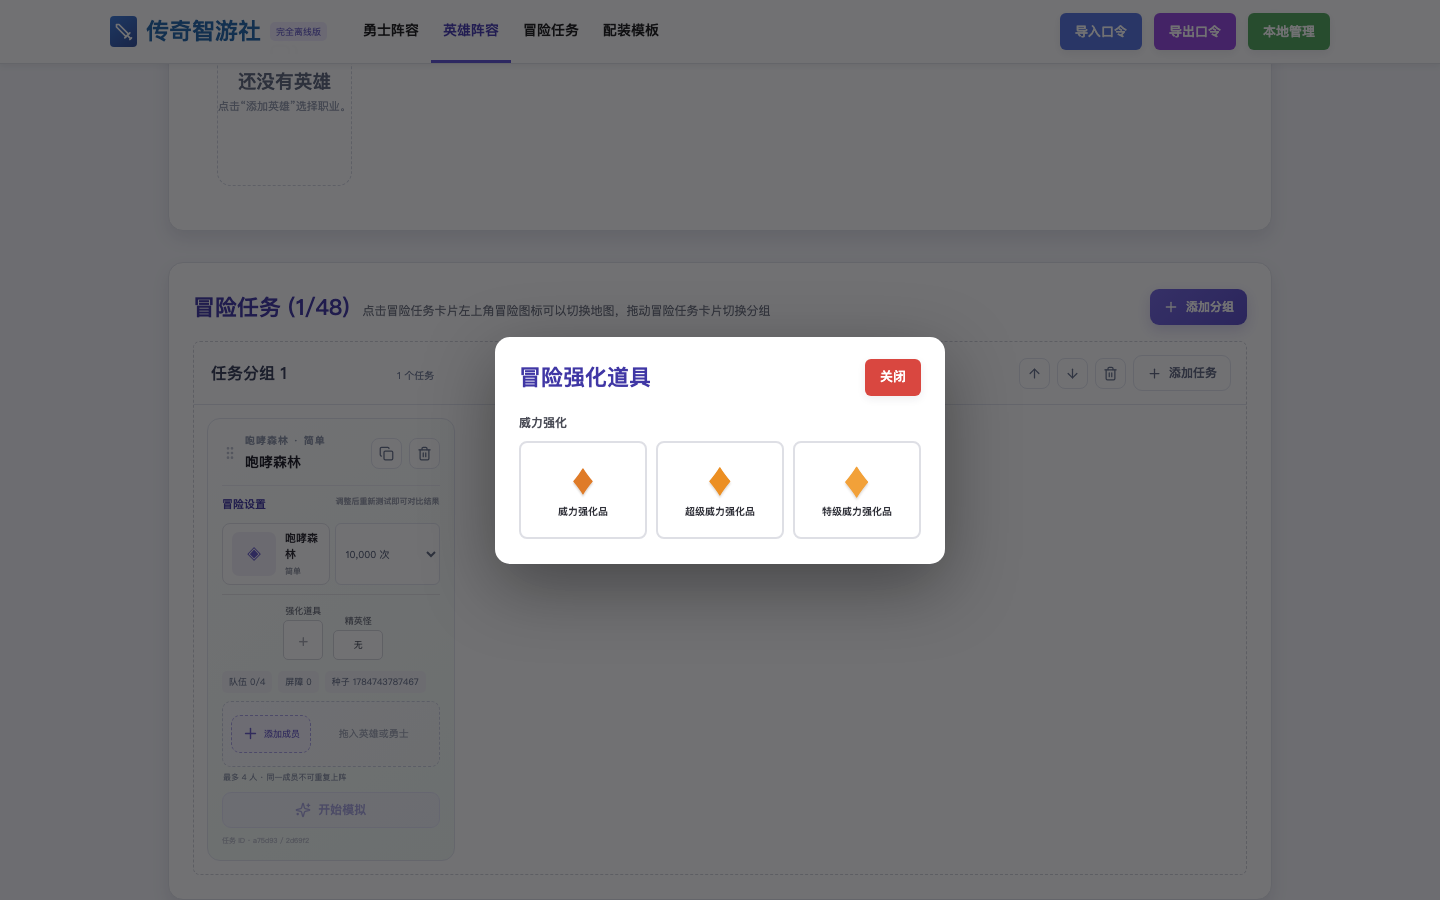
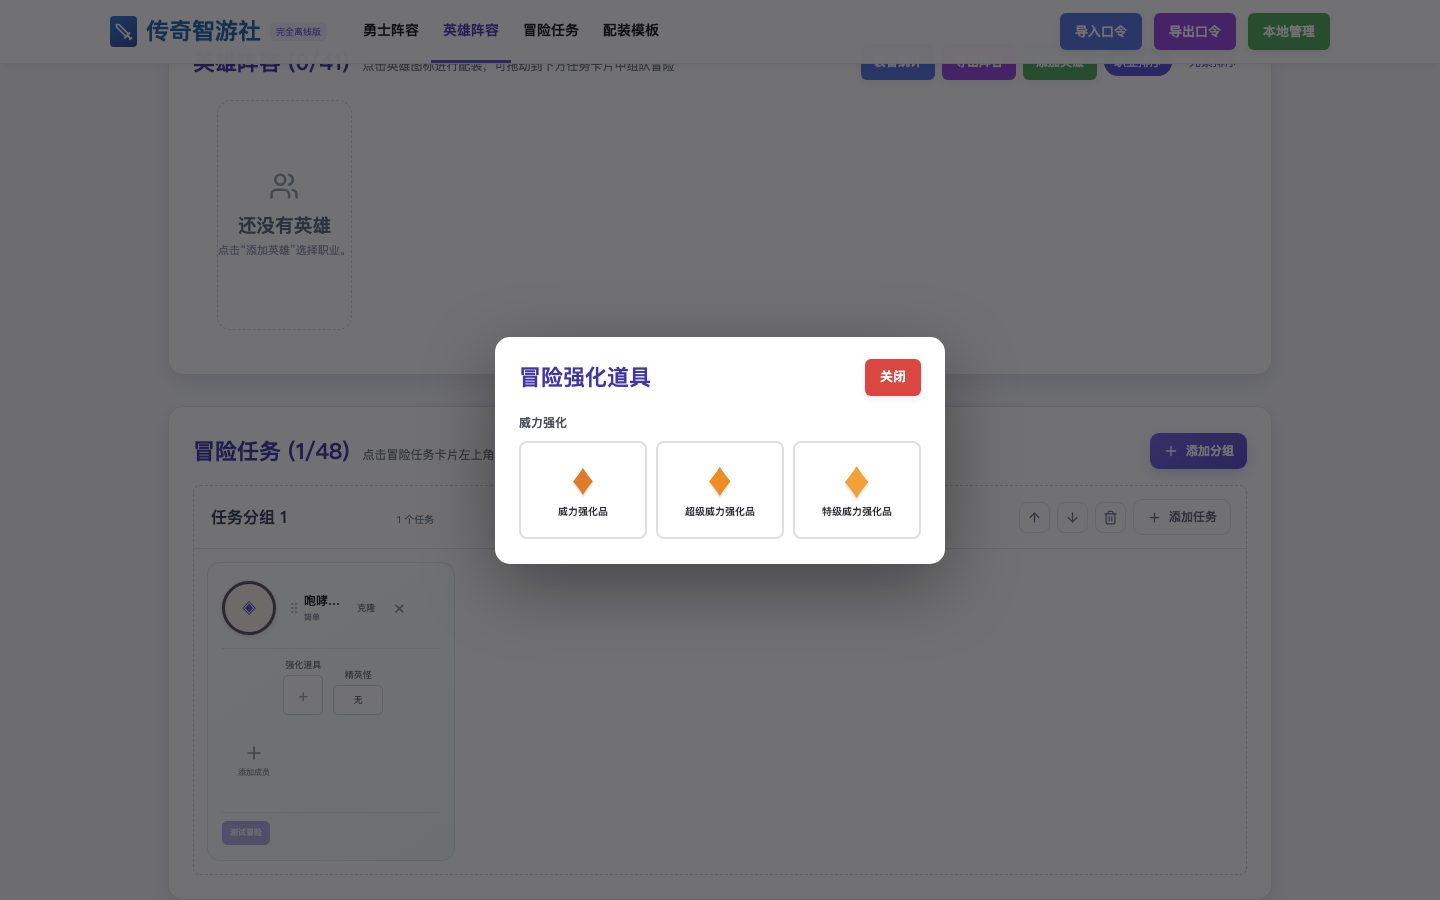
feat: match online adventure result flow

diff --git a/apps/desktop/src/App.tsx b/apps/desktop/src/App.tsx
@@ -491,7 +491,6 @@ function TaskCard({ systemId, systemGameVersion, groupId, index, task, units, qu
   const [questMapKey, setQuestMapKey] = useState<string | null>(null);
   const controller = useRef<AbortController | null>(null);
   const members = task.memberIds.map((id) => units.find((unit) => unit.id === id)).filter(Boolean) as PartyUnit[];
-  const barrierTotal = Object.values(task.barrier).reduce<number>((sum, value) => sum + (value ?? 0), 0);
   const boosterLevel = task.config.boosterLevel ?? (task.config.booster ? 1 : 0);
   const boosterNames = ["无", "威力强化品", "超级威力强化品", "特级威力强化品"];
   const eliteKinds = [["none", "无"], ["agile", "敏捷"], ["huge", "巨大"], ["dire", "凶残"], ["wealthy", "富有"], ["epic", "传奇"]] as const;
@@ -515,12 +514,14 @@ function TaskCard({ systemId, systemGameVersion, groupId, index, task, units, qu
   };
 
   const run = async () => {
+    const simulatedTask = task.config.iterations === 10000 ? task : { ...task, config: { ...task.config, iterations: 10000 as const } };
+    if (simulatedTask !== task) onChange?.(simulatedTask);
     const next = new AbortController(); controller.current = next;
-    setProgress({ taskId: task.id, completed: 0, total: task.config.iterations, phase: "queued" });
+    setProgress({ taskId: task.id, completed: 0, total: 10000, phase: "queued" });
     try {
-      const result = await desktopBridge.simulate({ ...task, gameDataVersion: systemGameVersion }, members, setProgress, next.signal, systemId);
+      const result = await desktopBridge.simulate({ ...simulatedTask, gameDataVersion: systemGameVersion }, members, setProgress, next.signal, systemId);
       onResult(result);
-      setProgress({ taskId: task.id, completed: task.config.iterations, total: task.config.iterations, phase: "complete" });
+      setProgress({ taskId: task.id, completed: 10000, total: 10000, phase: "complete" });
     } catch (error) {
       const detail = error instanceof Error ? error.message : String(error);
       const cancelled = next.signal.aborted || (error instanceof DOMException && error.name === "AbortError") || /cancel|cancelled|取消/i.test(detail);
@@ -535,7 +536,7 @@ function TaskCard({ systemId, systemGameVersion, groupId, index, task, units, qu
     catch (error) { setMessage(error instanceof Error ? error.message : "PNG 导出失败"); }
   };
 
-  return <article className="task-card" draggable onDragStart={(event) => {
+  return <article className="task-card" data-task-name={task.name} draggable onDragStart={(event) => {
     event.dataTransfer.setData("application/x-zys-task", JSON.stringify({ groupId, taskId: task.id }));
     event.dataTransfer.effectAllowed = "move";
   }} onDragOver={(event) => { event.preventDefault(); event.dataTransfer.dropEffect = event.dataTransfer.types.includes("application/x-zys-task") ? "move" : "copy"; }} onDrop={(event) => {
@@ -555,15 +556,13 @@ function TaskCard({ systemId, systemGameVersion, groupId, index, task, units, qu
     if (!units.some((unit) => unit.id === id)) { setMessage("拖入的成员不在当前体系阵容中"); return; }
     setMessage(""); onDrop(id);
   }}>
-    <header className="task-header">
-      <div className="task-heading"><GripVertical className="task-drag-handle" size={16} /><div><span className="eyebrow">{task.map} · {task.difficulty}</span><h3>{task.name}</h3></div></div>
-      <div className="card-actions"><IconButton label="复制任务" disabled={!canDuplicate} onClick={onCopy}><Copy size={15} /></IconButton><IconButton label="删除任务" onClick={onDelete} danger><Trash2 size={15} /></IconButton></div>
+    <header className="online-quest-header">
+      <button className="quest-switcher" title="点击切换地图" aria-label={`${task.name}切换地图`} onClick={() => { setQuestPicker(true); setQuestMapKey(null); }}><span className="quest-switcher-art">{currentQuest?.spritePath ? <AssetImage path={currentQuest.spritePath} alt={task.map} /> : "◈"}</span></button>
+      <div className="online-quest-name"><GripVertical className="task-drag-handle" size={14} /><strong>{task.map}</strong><small>{task.difficulty}</small></div>
+      <button className="online-card-action" aria-label="复制任务" disabled={!canDuplicate} onClick={onCopy}>克隆</button>
+      {selectedElement && selectedElement !== "force" && <span className="barrier-broken"><b className={`element-dot element-${elementCode[selectedElement]}`}>✦</b>已破盾</span>}
+      <button className="online-delete-task" aria-label="删除任务" onClick={onDelete}>×</button>
     </header>
-    <div className="simulation-config-title"><span>冒险设置</span><small>调整后重新测试即可对比结果</small></div>
-    <div className="task-config online-task-config">
-      <button className="quest-switcher" title="点击切换地图" aria-label={`${task.name}切换地图`} onClick={() => { setQuestPicker(true); setQuestMapKey(null); }}><span className="quest-switcher-art">{quests.find((entry) => entry.id === task.questId)?.spritePath ? <AssetImage path={quests.find((entry) => entry.id === task.questId)?.spritePath} alt={task.map} /> : "◈"}</span><span><strong>{task.map}</strong><small>{task.difficulty}</small></span></button>
-      <select aria-label={`${task.name}模拟次数`} value={task.config.iterations} onChange={(event) => onChange?.({ ...task, config: { ...task.config, iterations: Number(event.target.value) as 1000 | 10000 } })}><option value={1000}>1,000 次</option><option value={10000}>10,000 次</option></select>
-    </div>
     {questPicker && <div className="nested-picker-backdrop quest-picker-backdrop" onMouseDown={(event) => { if (event.target === event.currentTarget) { setQuestPicker(false); setQuestMapKey(null); } }}><section className="quest-picker-dialog" role="dialog" aria-modal="true" aria-labelledby="quest-picker-title"><header><h3 id="quest-picker-title">选择冒险任务</h3><button className="zys-button red" onClick={() => { setQuestPicker(false); setQuestMapKey(null); }}>关闭</button></header><nav>{(["普通冒险", "黄金城", "泰坦塔", "快闪"] as const).map((category) => <button key={category} className={questCategory === category ? "active" : ""} onClick={() => { setQuestCategory(category); setQuestMapKey(null); }}>{category}</button>)}</nav>{questMapKey ? <><button className="quest-picker-back" onClick={() => setQuestMapKey(null)}>← 返回</button><div className="quest-selected-map"><AssetImage path={chosenMapQuests[0]?.spritePath} alt={chosenMapQuests[0]?.mapName ?? "地图"} /><strong>{chosenMapQuests[0]?.mapName}{chosenMapQuests[0]?.isBoss ? " (Boss)" : ""}</strong></div><div className="quest-difficulty-grid">{chosenMapQuests.map((quest) => <button key={quest.id} onClick={() => selectQuest(quest)}><AssetImage path={quest.spritePath} alt={quest.difficulty} /><strong>{quest.difficulty}</strong></button>)}</div></> : <div className="quest-map-grid">{questMaps.map((quest) => <button key={quest.mapKey} onClick={() => quest.category === "泰坦塔" ? selectQuest(quest) : setQuestMapKey(quest.mapKey)}><AssetImage path={quest.spritePath} alt={quest.mapName} /><strong>{quest.category === "泰坦塔" ? quest.difficulty : `${quest.mapName}${quest.isBoss ? " (Boss)" : ""}`}</strong></button>)}</div>}</section></div>}
     <div className="online-task-options">
       <div><span>强化道具</span><button aria-label={`强化道具：${boosterNames[boosterLevel]}`} className={`task-square-option booster-${boosterLevel} ${boosterLevel > 0 ? "active" : ""}`} onClick={() => { setElitePicker(false); setBarrierPicker(false); setBoosterPicker(true); }}>{boosterLevel > 0 ? <><b>♦</b><small>{boosterLevel}</small></> : "+"}</button></div>
@@ -572,25 +571,19 @@ function TaskCard({ systemId, systemGameVersion, groupId, index, task, units, qu
       {task.config.titanTower && <label><input type="checkbox" checked onChange={(event) => onChange?.({ ...task, config: { ...task.config, titanTower: event.target.checked } })} />泰坦塔</label>}
     </div>
     {boosterPicker && <div className="nested-picker-backdrop booster-picker-backdrop" onMouseDown={(event) => { if (event.target === event.currentTarget) setBoosterPicker(false); }}><section className="booster-picker-dialog" role="dialog" aria-modal="true" aria-labelledby={`booster-picker-${task.id}`}><header><h3 id={`booster-picker-${task.id}`}>冒险强化道具</h3><button className="zys-button red" onClick={() => setBoosterPicker(false)}>关闭</button></header><strong>威力强化</strong><div>{([1, 2, 3] as const).map((level) => <button key={level} className={boosterLevel === level ? "active" : ""} title={level === 1 ? "攻防 +20% · 暴击 +10%" : level === 2 ? "攻防 +40% · 暴击 +15%" : "攻防 +80% · 暴击 +30% · 暴伤 +50%"} onClick={() => { const nextLevel = boosterLevel === level ? 0 : level; onChange?.({ ...task, config: { ...task.config, booster: nextLevel > 0, boosterLevel: nextLevel } }); setBoosterPicker(false); }}><b className={`booster-gem booster-gem-${level}`}>♦</b><span>{boosterNames[level]}</span></button>)}</div></section></div>}
-    <div className="task-meta"><span>队伍 {members.length}/{task.maxMembers}</span><span>屏障 {barrierTotal}</span><span>种子 {task.config.seed}</span></div>
-    <div className="party-dropzone">
-      {members.map((unit) => <button className="party-member" key={unit.id} title={`移除 ${unit.name}`} onClick={() => onRemove(unit.id)}><UnitAvatar unit={unit} small /><span>{unit.name}</span><X size={12} /></button>)}
-      {members.length < task.maxMembers && <><button className="add-party-member" onClick={() => setMemberPicker(!memberPicker)}><Plus size={17} />添加成员</button><span className="drop-hint drag-copy">拖入英雄或勇士</span></>}
+    <div className="party-dropzone online-party-dropzone">
+      {members.map((unit) => <button className="party-member online-party-member" key={unit.id} title={`移除 ${unit.name}`} onClick={() => onRemove(unit.id)}><span className="member-avatar-wrap"><UnitAvatar unit={unit} small /><b className={`member-element element-${unit.element}`}>{unit.element}</b><i>×</i></span><span>{unit.name}</span></button>)}
+      {members.length < task.maxMembers && <button className="add-party-member online-add-member" onClick={() => setMemberPicker(!memberPicker)}><Plus size={20} /><span>添加成员</span></button>}
     </div>
     {memberPicker && <div className="member-picker"><strong>选择成员添加到任务</strong><div>{units.filter((unit) => !task.memberIds.includes(unit.id)).map((unit) => <button key={unit.id} onClick={() => { onDrop(unit.id); setMemberPicker(false); }}><UnitAvatar unit={unit} small /><span>{unit.name}<small>{unit.kind === "champion" ? "勇士" : unit.className}</small></span></button>)}</div></div>}
-    <small className={`member-rule ${members.length >= task.maxMembers ? "limit" : ""}`}>{members.length >= task.maxMembers ? `已达 ${task.maxMembers} 人上限` : `最多 ${task.maxMembers} 人`} · 同一成员不可重复上阵</small>
     {message && <div className="task-message" role="status">{message}</div>}
-    {progress && progress.phase !== "complete" ? <div className="progress-area">
+    {progress && progress.phase !== "complete" ? <div className="progress-area online-progress">
       <div className="progress-copy"><span>模拟中 {Math.round(progress.completed / progress.total * 100)}%</span><button className="link-button" onClick={() => controller.current?.abort()}><PauseCircle size={14} />取消</button></div>
       <progress value={progress.completed} max={progress.total} />
-    </div> : <button className="simulate-button" onClick={() => void run()} disabled={!members.length}><Sparkles size={16} />开始模拟</button>}
-    {task.result && <><div className={`result-panel visual-result ${task.result.stale ? "stale" : ""}`}>
-      <div className="success-gauge" style={{ background: `conic-gradient(#6253da ${Math.max(0, Math.min(100, task.result.successRate))}%, #e9e7f6 0)` }}><span><strong>{task.result.successRate}%</strong><small>成功率</small></span></div>
-      <div className="result-metrics"><div><strong>{task.result.averageTurns}</strong><span>平均回合</span></div><div><strong>{task.result.survivalRate}%</strong><span>存活率</span></div><div><strong>{task.config.iterations.toLocaleString()}</strong><span>尝试次数</span></div></div>
-      <div className="result-bars"><label>任务成功<progress max={100} value={task.result.successRate} /></label><label>成员存活<progress max={100} value={task.result.survivalRate} /></label></div>
-      {task.result.stale && <small>数据版本已变化，请重新模拟</small>}
-    </div><div className="result-actions"><button className="link-button" onClick={() => setDetails(true)}>查看详情</button><button className="link-button" onClick={() => void exportResult()}><Download size={13} />导出结果 PNG</button></div>{details && <div className="modal-backdrop simulation-detail-backdrop" onMouseDown={(event) => { if (event.target === event.currentTarget) setDetails(false); }}><section className="modal simulation-detail-modal" role="dialog" aria-modal="true" aria-labelledby={`simulation-detail-${task.id}`}><header className="modal-header"><h2 id={`simulation-detail-${task.id}`}>冒险模拟详情</h2><div className="modal-header-actions"><button className="zys-button blue" onClick={() => void exportResult()}>下载图片</button><button className="zys-button red" onClick={() => setDetails(false)}>关闭</button></div></header><div className="simulation-quest-banner"><div><strong>{task.name}</strong><small>{task.map} · {task.difficulty}</small></div><dl><div><dt>强化道具</dt><dd>{boosterNames[boosterLevel]}</dd></div><div><dt>精英怪</dt><dd>{eliteKinds.find(([value]) => value === eliteKind)?.[1]}</dd></div><div><dt>元素屏障</dt><dd>{barrierTotal || "自动"}</dd></div></dl></div><div className="simulation-summary"><div><span>尝试次数</span><strong>{task.config.iterations.toLocaleString()}</strong></div><div><span>成功率</span><strong>{task.result.successRate}%</strong></div><div><span>平均回合数</span><strong>{task.result.averageTurns}</strong></div><div><span>最小回合数</span><strong>{task.result.minTurns}</strong></div><div><span>最大回合数</span><strong>{task.result.maxTurns}</strong></div></div><div className="simulation-members">{members.map((unit) => <article key={unit.id}><UnitAvatar unit={unit} /><div><strong>{unit.name}</strong><small>{unit.kind === "champion" ? "勇士" : unit.className}</small></div><span>存活率 <b>{task.result!.survivalRate}%</b></span><span>平均伤害 <b>{task.result!.averageDamage.toLocaleString()}</b></span><StatStrip unit={unit} /></article>)}</div><footer className="simulation-detail-footer">模拟器 {task.result.simulatorVersion} · 数据 {task.result.gameDataVersion}</footer></section></div>}</>}
-    <small className="task-identity">任务 ID · {groupId.slice(0, 6)} / {task.id.slice(0, 6)}</small>
+    </div> : null}
+    <div className="online-result-row">{task.result && <><span className="online-success-icon" aria-label="成功率">☺</span><strong>成功率: {task.result.successRate.toFixed(3)}%</strong><button onClick={() => setDetails(true)}>查看详情</button></>}<button className="online-test-button" onClick={() => void run()} disabled={!members.length}>测试冒险</button></div>
+    {task.result?.stale && <small className="stale-result">数据版本已变化，请重新测试</small>}
+    {task.result && details && <div className="modal-backdrop simulation-detail-backdrop" onMouseDown={(event) => { if (event.target === event.currentTarget) setDetails(false); }}><section className="modal simulation-detail-modal" role="dialog" aria-modal="true" aria-labelledby={`simulation-detail-${task.id}`}><header className="modal-header"><h2 id={`simulation-detail-${task.id}`}>冒险模拟详情</h2><div className="modal-header-actions"><button className="zys-button blue" onClick={() => void exportResult()}>下载图片</button><button className="zys-button red" onClick={() => setDetails(false)}>关闭</button></div></header><div className="simulation-quest-banner"><div className="simulation-quest-title"><span className="quest-switcher-art">{currentQuest?.spritePath ? <AssetImage path={currentQuest.spritePath} alt={task.map} /> : "◈"}</span><div><strong>{task.map}</strong><small>{task.difficulty}</small></div></div><dl><div><dt>冒险强化道具</dt><dd>{boosterLevel ? boosterNames[boosterLevel] : "无"}</dd></div><div><dt>精英怪</dt><dd>{eliteKinds.find(([value]) => value === eliteKind)?.[1]}</dd></div><div><dt>元素屏障</dt><dd>{selectedElementLabel}</dd></div></dl></div><div className="simulation-summary"><div><span>尝试次数</span><strong>{(task.result.iterations ?? 10000).toLocaleString()}</strong></div><div><span>成功率</span><strong>{task.result.successRate.toFixed(2)}%</strong></div><div><span>平均回合数</span><strong>{task.result.averageTurns}</strong></div><div><span>最小回合数</span><strong>{task.result.minTurns}</strong></div><div><span>最大回合数</span><strong>{task.result.maxTurns}</strong></div></div><div className="simulation-member-summary">{members.map((unit) => { const memberResult = task.result?.memberResults?.find((entry) => entry.id === unit.id); return <article key={unit.id}><UnitAvatar unit={unit} small /><strong>{unit.name}</strong><span>☺ {(memberResult?.survivalRate ?? task.result!.survivalRate).toFixed(2)}%</span><span>⚔ {Math.round(memberResult?.averageDamage ?? task.result!.averageDamage).toLocaleString()}</span><span>♥ {Math.round(memberResult?.averageRemainingHealth ?? task.result!.averageRemainingHealth).toLocaleString()}</span></article>; })}</div><div className="simulation-members">{members.map((unit) => <article key={unit.id}><UnitAvatar unit={unit} /><div><strong>{unit.name}</strong><small>{unit.kind === "champion" ? "勇士" : unit.className}</small></div><StatStrip unit={unit} /></article>)}</div><footer className="simulation-detail-footer">模拟器 {task.result.simulatorVersion} · 数据 {task.result.gameDataVersion}</footer></section></div>}
   </article>;
 }
 

diff --git a/apps/desktop/tests/App.test.tsx b/apps/desktop/tests/App.test.tsx
@@ -181,10 +181,10 @@ test("supports drag payload into an adventure task", async () => {
   render(<App />);
   await screen.findByText(/英雄阵容/, { selector: "h2" });
   await user.click(screen.getByRole("button", { name: /冒险任务/ }));
-  const dropzone = screen.getByText("拖入英雄或勇士").closest("div")!;
+  const dropzone = document.querySelector<HTMLElement>(".task-card")!;
   const transfer = { getData: () => "missing-id", setData: () => {}, effectAllowed: "copy", dropEffect: "copy" };
-  fireEvent.drop(dropzone.closest("article")!, { dataTransfer: transfer });
-  expect(screen.getByText(/队伍 1\/4/)).toBeInTheDocument();
+  fireEvent.drop(dropzone, { dataTransfer: transfer });
+  expect(screen.getByTitle("移除 骑士1")).toBeInTheDocument();
 });
 
 test("contains no remote runtime URLs", async () => {
@@ -232,7 +232,7 @@ test("reorders task cards within and across groups using the task drag payload",
   fireEvent.dragStart(cards[1]!, { dataTransfer: within });
   fireEvent.drop(cards[0]!, { dataTransfer: within });
   cards = [...document.querySelectorAll<HTMLElement>(".task-card")];
-  expect(cards[0]).toHaveTextContent("副本");
+  expect(cards[0]).toHaveAttribute("data-task-name", "咆哮森林 副本");
 
   await user.click(screen.getByRole("button", { name: "添加分组" }));
   let groups = [...document.querySelectorAll<HTMLElement>(".task-group")];
@@ -243,7 +243,7 @@ test("reorders task cards within and across groups using the task drag payload",
   groups = [...document.querySelectorAll<HTMLElement>(".task-group")];
   expect(groups[0]).toHaveTextContent("1 个任务");
   expect(groups[1]).toHaveTextContent("2 个任务");
-  expect(groups[1]!.querySelector(".task-card")).toHaveTextContent("副本");
+  expect(groups[1]!.querySelector(".task-card")).toHaveAttribute("data-task-name", "咆哮森林 副本");
 });
 
 test("selects the online automatic, element and no-barrier modes", async () => {
@@ -260,8 +260,7 @@ test("selects the online automatic, element and no-barrier modes", async () => {
   await user.click(screen.getByRole("button", { name: "元素屏障：火" }));
   await user.click(screen.getByRole("option", { name: "无屏障" }));
   expect(screen.getByRole("button", { name: "元素屏障：无屏障" })).toBeInTheDocument();
-  expect(screen.getByText("屏障 3275")).toBeInTheDocument();
-  expect(screen.getByText(/最多 4 人 · 同一成员不可重复上阵/)).toBeInTheDocument();
+  expect(screen.getByRole("button", { name: "添加成员" })).toBeInTheDocument();
 });
 
 test("mirrors the online map, booster and elite selection flows", async () => {
@@ -338,9 +337,9 @@ test("treats an ordinary Rust cancellation error as a recoverable UI state", asy
   await appReady();
   await user.click(screen.getByRole("button", { name: /冒险任务/ }));
   vi.spyOn(desktopBridge, "simulate").mockRejectedValueOnce(new Error("simulation cancelled by user"));
-  await user.click(screen.getByRole("button", { name: "开始模拟" }));
+  await user.click(screen.getByRole("button", { name: "测试冒险" }));
   expect(await screen.findByText("模拟已取消，可重新开始")).toBeInTheDocument();
-  expect(screen.getByRole("button", { name: "开始模拟" })).toBeEnabled();
+  expect(screen.getByRole("button", { name: "测试冒险" })).toBeEnabled();
 });
 
 test("saves, applies and deletes a local equipment template", async () => {

diff --git a/apps/desktop/e2e/workflows.spec.ts b/apps/desktop/e2e/workflows.spec.ts
@@ -69,7 +69,7 @@ test.describe("浏览器预览中的主要离线工作流", () => {
     await assertOffline(remoteRequests);
   });
 
-  test("英雄拖放载荷可以加入任务，1000 与 10000 次模拟均展示进度和结果", async ({ page }) => {
+  test("英雄拖放载荷可以加入任务，固定 10000 次模拟展示进度和线上同款结果", async ({ page }) => {
     const remoteRequests = await openPreview(page);
 
     await page.getByRole("button", { name: "添加英雄" }).click();
@@ -92,19 +92,15 @@ test.describe("浏览器预览中的主要离线工作流", () => {
     }, secondHero);
     await task.dispatchEvent("drop", { dataTransfer: transfer });
     await expect(task.getByText(secondHero.name, { exact: true })).toBeVisible();
-    await expect(task.getByText("队伍 1/4")).toBeVisible();
+    await expect(task.getByTitle(`移除 ${secondHero.name}`)).toBeVisible();
 
-    const iterationSelect = task.getByLabel(/模拟次数/);
-    await iterationSelect.selectOption("1000");
-    await task.getByRole("button", { name: "开始模拟" }).click();
+    await task.getByRole("button", { name: "测试冒险" }).click();
     await expect(task.getByText(/模拟中 \d+%/)).toBeVisible();
-    await expect(task.getByText("87.4%")).toBeVisible();
-    await expect(task.getByText("成功率")).toBeVisible();
+    await expect(task.getByText("成功率: 87.400%")).toBeVisible();
 
-    await iterationSelect.selectOption("10000");
-    await task.getByRole("button", { name: "开始模拟" }).click();
+    await task.getByRole("button", { name: "测试冒险" }).click();
     await expect(task.getByText(/模拟中 \d+%/)).toBeVisible();
-    await expect(task.getByText("87.4%")).toBeVisible();
+    await expect(task.getByText("成功率: 87.400%")).toBeVisible();
     await task.getByRole("button", { name: "查看详情" }).click();
     await expect(task.getByText("browser-preview")).toBeVisible();
     await assertOffline(remoteRequests);

diff --git a/apps/desktop/src/styles.css b/apps/desktop/src/styles.css
@@ -253,3 +253,13 @@ body { background: #f3f5fa; }
 .collection-card p { margin:14px 0 10px; color:#555b6a; font-size:11px; }.collection-card p span { color:#aaa; }
 .collection-source { position:absolute; top:9px; left:9px; padding:2px 6px; color:#fff; font-size:9px; border-radius:9px; background:#6258df; }
 @media (max-width:900px) { .local-collection { padding-right:0; }.collection-search input { min-width:0; flex:1; } }
+/* Online task-card parity: keep primary task configuration and result flow compact. */
+.online-quest-header { min-height:62px; display:grid; grid-template-columns:58px minmax(0,1fr) auto auto 22px; align-items:center; gap:7px; }
+.online-quest-header .quest-switcher { min-height:0; padding:0; border:0; background:transparent; }.online-quest-header .quest-switcher-art { width:54px; height:54px; flex-basis:54px; border:3px solid #5c5260; border-radius:50%; background:#f4f1e8; box-shadow:0 1px 4px rgba(28,25,40,.18); }
+.online-quest-name { min-width:0; display:grid; grid-template-columns:14px 1fr; align-items:center; column-gap:3px; }.online-quest-name strong,.online-quest-name small { grid-column:2; overflow:hidden; text-overflow:ellipsis; white-space:nowrap; }.online-quest-name strong { font-size:12px; }.online-quest-name small { margin-top:2px; color:#7e8491; font-size:8px; }.task-drag-handle { grid-row:1/3; color:#b6bac5; cursor:grab; }
+.online-card-action,.online-delete-task { border:0; background:transparent; }.online-card-action { padding:5px 6px; color:#666c7b; font-size:9px; }.online-delete-task { color:#9d7b82; font-size:17px; }.barrier-broken { display:flex; align-items:center; gap:3px; color:#686d78; font-size:8px; white-space:nowrap; }.barrier-broken b { width:18px; height:18px; display:grid; place-items:center; color:white; border-radius:50%; font-style:normal; }
+.online-party-dropzone { min-height:82px; align-items:flex-start; justify-content:flex-start; padding:7px 5px; border:0; border-radius:0; background:transparent; }.online-party-member { width:54px; display:flex; flex-direction:column; gap:4px; padding:0; border:0; background:transparent; text-align:center; }.online-party-member:hover { border-color:transparent; }.member-avatar-wrap { position:relative; width:44px; height:44px; display:block; margin:auto; }.member-avatar-wrap .unit-avatar { width:44px; height:44px; border-radius:50%; }.member-avatar-wrap i { position:absolute; top:-3px; right:-4px; width:16px; height:16px; display:grid; place-items:center; color:#fff; border:2px solid #fff; border-radius:50%; background:#8b7b83; font-size:10px; font-style:normal; }.member-element { position:absolute; right:-3px; bottom:-2px; min-width:17px; height:17px; display:grid; place-items:center; padding:0 3px; color:#fff; border:2px solid #fff; border-radius:50%; font-size:7px; }.online-party-member > span:last-child { width:100%; overflow:hidden; color:#484b56; font-size:8px; text-overflow:ellipsis; white-space:nowrap; }.online-add-member { width:54px; min-height:64px; flex-direction:column; justify-content:center; gap:4px; padding:0; border:0; color:#8d919d; background:transparent; }.online-add-member span { font-size:8px; }
+.element-火,.element-fire { background:#df5d5f; }.element-水,.element-water { background:#4c94d8; }.element-土,.element-earth { background:#a58350; }.element-风,.element-air { background:#48a884; }.element-光,.element-light { background:#dfa934; }.element-暗,.element-dark { background:#7254bd; }.element-all { background:#85818b; }
+.online-result-row { min-height:34px; display:flex; align-items:center; gap:7px; margin-top:8px; padding-top:8px; border-top:1px solid #e8e9ec; }.online-result-row > strong { margin-right:auto; color:#3d414c; font-size:10px; }.online-result-row button { padding:5px 7px; color:#5b55a7; border:1px solid #d9d6ec; border-radius:5px; background:#fff; font-size:8px; }.online-result-row .online-test-button { color:#fff; border-color:#6658d3; background:#6658d3; }.online-result-row button:disabled { opacity:.48; }.online-success-icon { width:20px; height:20px; display:grid; place-items:center; color:#174f27; border:2px solid #216e37; border-radius:50%; background:#6bd36f; font-size:13px; font-weight:800; }.stale-result { display:block; margin-top:5px; color:#aa711e; font-size:8px; }.online-progress { margin-top:7px; }
+.simulation-quest-title { display:flex; align-items:center; gap:12px; }.simulation-quest-title .quest-switcher-art { width:62px; height:62px; border-radius:50%; }.simulation-member-summary { display:grid; grid-template-columns:repeat(4,1fr); gap:8px; margin:0 48px; padding:15px 0; border-bottom:1px solid #e6e7eb; }.simulation-member-summary article { display:grid; grid-template-columns:42px 1fr; gap:2px 8px; align-items:center; }.simulation-member-summary .unit-avatar { grid-row:1/5; width:42px; height:42px; border-radius:50%; }.simulation-member-summary strong { font-size:10px; }.simulation-member-summary span { color:#656b79; font-size:8px; }
+.simulation-members article { grid-template-columns:58px 150px 1fr; }.simulation-members article > .stat-strip { min-width:0; }

diff --git a/apps/desktop/src/types/domain.ts b/apps/desktop/src/types/domain.ts
@@ -109,6 +109,7 @@ export interface SimulationConfig {
 }
 
 export interface SimulationResult {
+  iterations?: number;
   successRate: number;
   averageTurns: number;
   minTurns: number;
@@ -116,6 +117,12 @@ export interface SimulationResult {
   survivalRate: number;
   averageDamage: number;
   averageRemainingHealth: number;
+  memberResults?: Array<{
+    id: string;
+    survivalRate: number;
+    averageDamage: number;
+    averageRemainingHealth: number;
+  }>;
   simulatorVersion: string;
   gameDataVersion: string;
   completedAt: string;

diff --git a/apps/desktop/src/platform/bridge.ts b/apps/desktop/src/platform/bridge.ts
@@ -281,9 +281,15 @@ export const desktopBridge = {
       onProgress({ taskId: task.id, completed: Math.round((task.config.iterations * step) / steps), total: task.config.iterations, phase: "running" });
     }
     return {
+      iterations: task.config.iterations,
       successRate: 87.4, averageTurns: 8.6, minTurns: 5, maxTurns: 17, survivalRate: 92.1,
       averageDamage: 18640, averageRemainingHealth: 2830, simulatorVersion: "browser-preview",
       gameDataVersion: "offline-preview-1", completedAt: new Date().toISOString(),
+      memberResults: units.map((unit, index) => ({
+        id: unit.id, survivalRate: Math.max(0, 94.6 - index * 2.1),
+        averageDamage: Math.round(18640 / Math.max(1, units.length) * (1 + index * 0.08)),
+        averageRemainingHealth: Math.round(2830 / Math.max(1, units.length) * (1 - index * 0.06)),
+      })),
     };
   },
 

diff --git a/apps/desktop/src-tauri/src/lib.rs b/apps/desktop/src-tauri/src/lib.rs
@@ -1580,6 +1580,12 @@ async fn start_simulation(
             "survivalRate": result.members.iter().map(|member| member.survival_rate).sum::<f64>() / member_count * 100.0,
             "averageDamage": result.members.iter().map(|member| member.average_damage).sum::<f64>(),
             "averageRemainingHealth": result.members.iter().map(|member| member.average_remaining_health).sum::<f64>(),
+            "memberResults": result.members.iter().map(|member| json!({
+                "id": member.id,
+                "survivalRate": member.survival_rate * 100.0,
+                "averageDamage": member.average_damage,
+                "averageRemainingHealth": member.average_remaining_health
+            })).collect::<Vec<_>>(),
             "seed": result.seed, "iterations": result.iterations,
             "simulatorVersion": SIMULATOR_VERSION, "gameDataVersion": game_data_version,
             "completedAt": Utc::now().to_rfc3339(), "stale": false

diff --git a/docs/ONLINE_OFFLINE_PARITY.md b/docs/ONLINE_OFFLINE_PARITY.md
@@ -72,11 +72,12 @@
 | 地图选择 | 点击左上地图图标打开图片网格；普通、黄金城、泰坦塔、快闪四页签 | 已改为同类四页签、地图图片网格和难度二级选择 | 部分一致（仍需逐分类像素核对） |
 | 克隆 / 删除任务 | 任务卡内操作 | 已有 | 一致 |
 | 添加任务 | 组末尾添加 | 已有 | 一致 |
-| 队伍编排 | 英雄/勇士拖入任务，卡内移除 | 已有 | 一致 |
+| 队伍编排 | 英雄/勇士拖入任务；圆形头像、元素角标和 `×` 均在卡内展示 | 已改为相同的紧凑成员图标与卡内移除流程 | 一致 |
 | 强化道具 | 卡内 `+` 打开“冒险强化道具”三卡弹窗；再次点击已选卡取消 | 已还原相同入口、三卡弹窗、选中/取消语义与三档效果 | 一致 |
 | 精英怪 | 卡内紧凑下拉：无、敏捷、巨大、凶残、富有、传奇 | 已改为相同互斥下拉并持久化具体类型 | 一致 |
 | 元素屏障 | 卡内紧凑下拉；`selectedElement` 为自动、任务可选元素或 `force` 无屏障 | 已移除错误的六元素数值输入框，保存相同选择语义；Rust 模拟入口识别 `force` 与元素覆盖 | 一致 |
-| 测试冒险 | 线上测试结果流程 | 本地 Rust 固定种子 1000/10000 次模拟、进度、取消与结果导出 | 部分一致（数值基准仍需更多金样本） |
+| 测试冒险 | 点击后直接运行固定 10,000 次；卡片仅显示三位小数成功率与“查看详情/测试冒险” | 已固定 10,000 次并改成相同的直接重算和紧凑结果行；取消和 PNG 导出保留在离线详情能力中 | 一致（数值基准仍需更多金样本） |
+| 模拟详情 | 地图/难度、三类选项、五项汇总、四名成员各自存活率/伤害/剩余生命及完整配置 | Rust 已返回成员级结果，详情按相同信息层级展示；不再把队伍汇总值重复当作个人结果 | 一致（成员配置视觉仍需逐像素核对） |
 
 ## 当前自动化证据
 
@@ -87,7 +88,7 @@
 
 ## 下一轮优先级
 
-1. 继续像素核对地图选择器、任务卡顶部信息、成员图标与结果区。
-2. 逐职业核对技能排序、自带技能特殊文案和技能等级边界。
-3. 对装备同阶排序、亲和标识、星能/超越组合做自动截图和数值金样本。
+1. 逐职业核对技能排序、自带技能特殊文案和技能等级边界。
+2. 对装备同阶排序、亲和标识、星能/超越组合做自动截图和数值金样本。
+3. 继续像素核对地图选择器与模拟详情中的完整成员配置卡。
 4. 获取更多线上体系口令样本，验证跨线上六位口令与离线完整配置码的迁移边界。

diff --git a/docs/WEB_FIDELITY_AUDIT.md b/docs/WEB_FIDELITY_AUDIT.md
@@ -64,6 +64,8 @@
 - 冒险强化道具有无、威力、超级威力、特级威力四档。三档加成分别为攻防 +20%/暴击 +10%，攻防 +40%/暴击 +15%，攻防 +80%/暴击 +30%/暴伤 +50%。
 - 精英怪不是布尔值，而是无、敏捷、巨大、凶残、富有、传奇六种互斥类型；选择值会持久化，并在配置卡与结果详情中显示具体类型。
 - 元素屏障由 `simulationConfig.selectedElement` 选择：未设置表示自动，具体元素覆盖自动选择，`force` 表示无屏障。可选元素取自任务数据；它不是六个由用户手填的屏障数值。
+- 点击“测试冒险”不打开参数弹窗，而是直接运行固定 10,000 次并覆盖卡片结果；卡片结果只显示三位小数成功率、“查看详情”和“测试冒险”。
+- “查看详情”弹窗展示五项任务汇总，并分别展示每位成员的存活率、平均伤害和平均剩余生命。离线 Rust 命令层现已透传成员级结果，避免用队伍汇总值伪装个人统计。
 
 ## “星图/技能树”边界
 